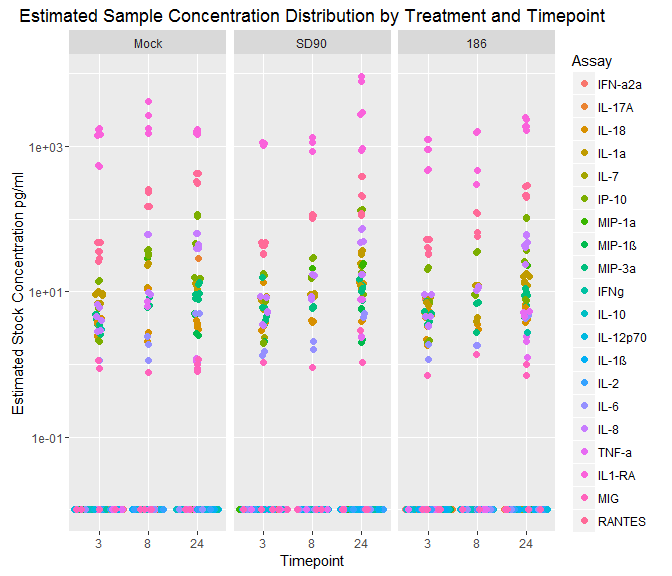
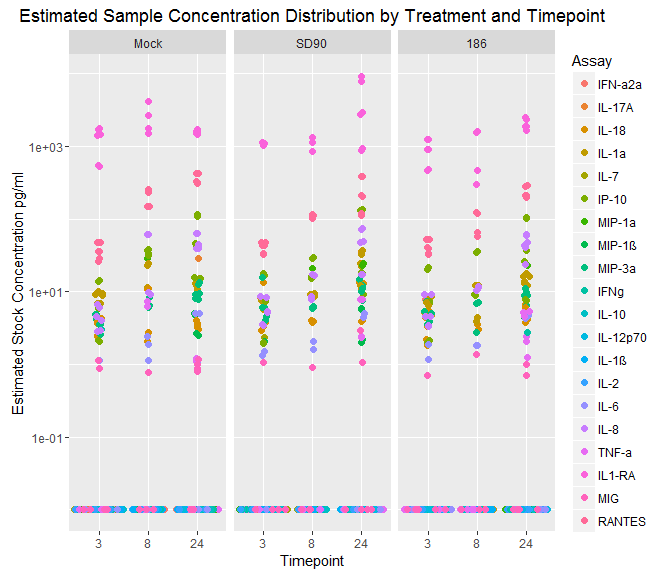
added back in the scatter plots of concentrations

Changed region(s): [[0.0938, 0.875, 0.8125, 0.9062]]

diff --git a/MSD_panels_1_2_3_HVE_sup_analysis.md b/MSD_panels_1_2_3_HVE_sup_analysis.md
@@ -73,6 +73,8 @@ Samples are multiplied by their dilution factor to get estimated concentrations.
 
 If a sample had one rep that was below detection and another that was in range, I used the remaining "in range" rep as the "average" for that sample.
 
+![](MSD_panels_1_2_3_HVE_sup_analysis_files/figure-markdown_github/scatter%20plots%20of%20mock%20subtracted-1.png)
+
 ![](MSD_panels_1_2_3_HVE_sup_analysis_files/figure-markdown_github/logFC%20heatmap,%20check%20NAs-1.png)
 
 Here is the same heat map with some changes to to Assay names and order:
